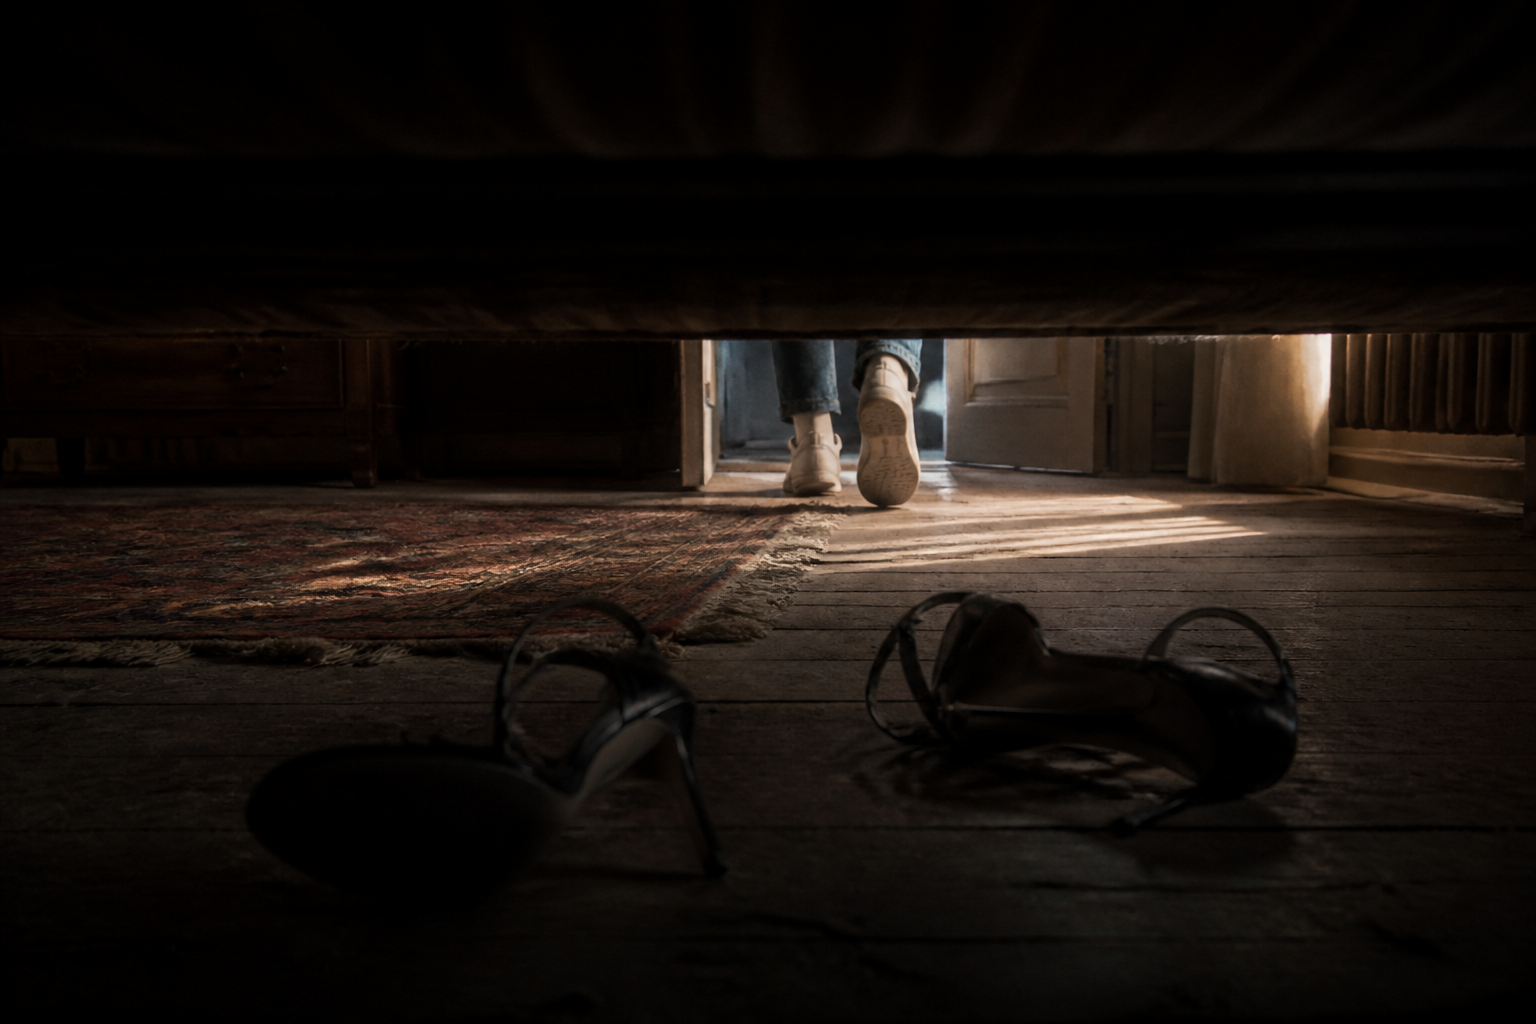
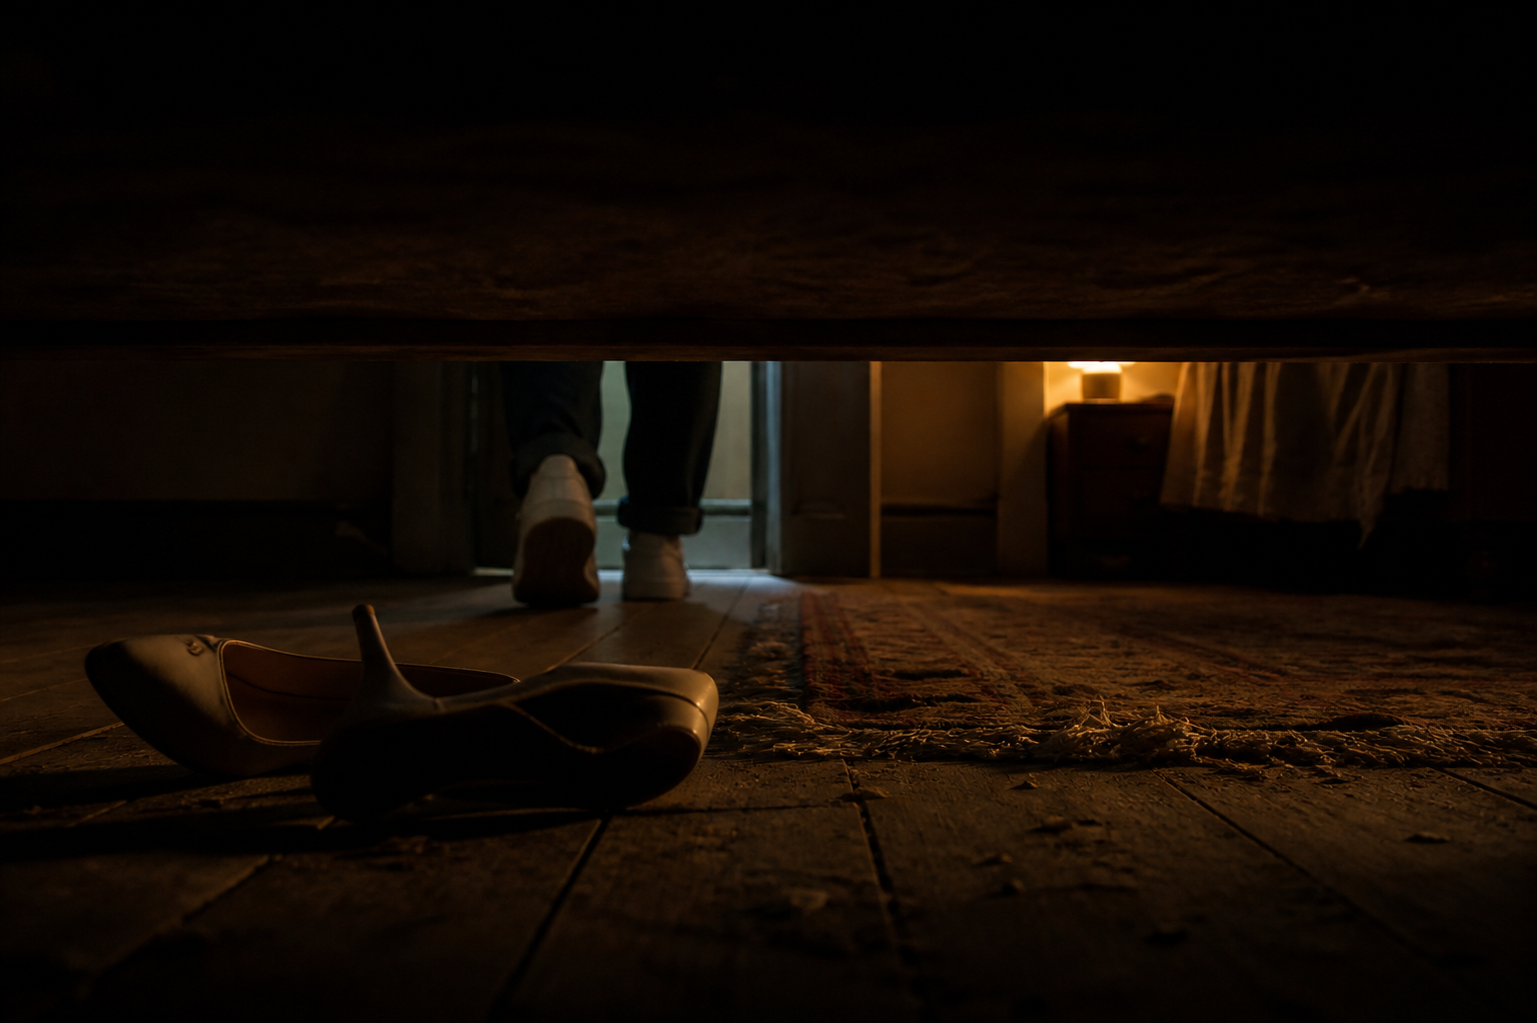
story: two hours later it is dusk outside, his house is lit at night

diff --git a/index.html b/index.html
@@ -434,12 +434,14 @@ const S = {flags: {}, dread: 0, seen: {}, day: false};
 const has = k => !!S.flags[k];
 const mark = k => { S.flags[k] = true; };
 // 门外那个机位的三张图：他进门 / 两小时后他出门 / 门口空了。
-// 同一个机位、同一种光（out 和 empty 是拿 v1 当参考图生的），所以换的只是贴图。
-const PANO_OUT_HIM = 'images/pano-outside-out.png';
-const PANO_OUT_EMPTY = 'images/pano-outside-empty.png';
-// 第四张：夜里的同一条街。"手机没掏出来"那条支线走到最后，她是自己从他家走出来的，
-// 那时候天早黑了，再用中午那张就散了。也是拿 empty 当参考图生的，只改光，
-// 房子、灌木、车、树一个都没动，所以热点坐标继续通用。
+// 同一个机位、同一栋房子（out-eve / empty-eve 是顺着 v1 那张 img2img 下来的），
+// 换的只是贴图和光：v1 是白天他进门，两小时之后天就有点黑了——路灯刚亮、影子全没了，
+// 他家一楼的窗户是暖黄的（他把灯留着了，所以后面进屋里也是亮的）。
+const PANO_OUT_HIM = 'images/pano-outside-out-eve.png';
+const PANO_OUT_EMPTY = 'images/pano-outside-empty-eve.png';
+// 第四张：全黑的同一条街。"手机没掏出来"那条支线走到最后，她是自己从他家走出来的，
+// 那时候比出门那会儿又黑了一大截：天全黑、他家每一扇窗都灭了。
+// 也是拿同一条街的图当参考生的，房子、灌木、车、树一个都没动，所以热点坐标继续通用。
 const PANO_OUT_DUSK = 'images/pano-outside-dusk.png';
 // 第二章那两张：她自己租下的隔壁。镜像户型、空屋子、裸地板，什么家具都没有——
 // 一个纸箱、一台电钻、一个睡袋，这就是她搬过来的全部。空本身就是这一章的调子。
@@ -522,7 +524,8 @@ const NODES = {
        on: () => mark('otherName')},
     ],
   },
-  // 最后一段：周六下午，他家门外。玩家蹲在灌木丛里，隔着树叶看他进门。
+  // 最后一段：周六，他家门外。玩家蹲在灌木丛里，隔着树叶看他进门；
+  // 两个小时后他再出来时天已经有点黑了（见 hedgeBeat / PANO_OUT_HIM）。
   // 这张全景图自带"藏在灌木里"——前景的枝叶就是遮挡（tools/gen_pano_outside.py）。
   // 同一个机位另有两张：他出门（-out）和门口空了（-empty），见 hedgeBeat。
   outside: {
@@ -562,11 +565,13 @@ const NODES = {
     ],
   },
   // 门里面。他不在家，你有整个晚上。
-  // 热点坐标是对着 images/pano-hishouse-v1.png 量的（u=x/1774, v=y/887）。
+  // 外面天已经黑了，所以屋里这张是夜版（v2 = v1 只改光）：他把落地灯和厨房的灯留着了，
+  // 百叶窗的缝里是夜色。热点坐标还是对着 v1 量的（u=x/1774, v=y/887）——
+  // img2img 只改光，家具一件都没动，坐标全部沿用。
   // 前门在图的左右边缘（接缝上），所以从门外走进来时 arrive 取 0.02。
   hishouse: {
     name: '他家',
-    pano: 'images/pano-hishouse-v1.png',
+    pano: 'images/pano-hishouse-v2.png',
     off: 0,
     rain: 0, wind: 0, drone: 0.06,
     spots: [
@@ -601,11 +606,12 @@ const NODES = {
   // 那么厚、下面架四条短腿"）才生效，但缝里地板亮得一清二楚——能躲进去，却看不出
   // "不知道里面有什么"。所以 v10 不再让模型猜，直接按量出来的坐标把那道缝压进阴影。
   // v4~v9 都留在 images/ 下没删，方便回退对比。
-  // 热点坐标对着 images/pano-hisbed-v7.png 量的，v8/v9/v10 家具位置没动，继续沿用
+  // v11 = v10 只改光的夜版：外面天黑了，屋里只开着床头那盏小灯，百叶窗的缝里是夜色。
+  // 热点坐标对着 images/pano-hisbed-v7.png 量的，v8~v11 家具位置没动，继续沿用
   //（u=x/1774, v=y/887）。
   hisbed: {
     name: '他的卧室',
-    pano: 'images/pano-hisbed-v10.png',
+    pano: 'images/pano-hisbed-v11.png',
     off: 0,
     rain: 0, wind: 0, drone: 0.05,
     // 进门那句不能挂在楼梯热点上——那句是在楼梯上说的。走完才说这一句。
@@ -643,7 +649,7 @@ const NODES = {
   // 坐标就是那道亮着的缝（进来时朝的也是这个方向）。
   underbed: {
     name: '床底',
-    pano: 'images/pano-underbed-v1.png',
+    pano: 'images/pano-underbed-v2.png',
     off: 0,
     rain: 0, wind: 0, drone: 0.14,          // 无窗无雨，只剩心跳那种低频压得更重
     onArrive: () => underBedBeat(),
@@ -2236,7 +2242,7 @@ app.addEventListener('click', e => {
     blip('note');
     callScene([
       {t: '你伸手摸了一下那张你睡过无数次的床。', d: 4.6},
-      {t: '枕头上有几根长头发。你把它们捏起来，举到百叶窗那道光里看。', d: 6.0,
+      {t: '枕头上有几根长头发。你把它们捏起来，举到床头灯那点光里看。', d: 6.0,
        f: () => showPlate(PLATE_HAIR)},
       {t: '金棕色，很长，明显不是他的。你把它们绕在食指上绕了三圈，塞进了外套口袋。', d: 7.0},
       {d: 1.6, f: hidePlate},
@@ -2396,10 +2402,10 @@ const plateEl = document.getElementById('plate');
 // 它基本只是留着：contain 会把整张图完整装进窗口，短边方向才有余量可偏。
 //   门口那张已经重做成横构图了（him-door-v2.jpg，1536x1024，跟 claire-underbed 一个尺寸）：
 //   旧版 him-door.jpg 是竖的 1023x1537，contain 之后左右两条黑边吃掉一半画面。
-//   头发那张（1023x1537）还是竖的，横屏里是高度顶满、左右留黑边，竖向偏移不起作用，
-//   所以那个 15% 是无害的历史值，捏着头发的手指完整在画面里。
+//   头发那张同样重做成了横的（hair-light-v2.jpg，1536x1024）：竖版在横屏里高度顶满、
+//   左右两条大黑边，跟别的贴片对不上。横版居中取景就行。
 const PLATE_DOOR = ['images/him-door-v2.jpg', '50% 50%'];
-const PLATE_HAIR = ['images/hair-light.jpg', '50% 15%'];
+const PLATE_HAIR = ['images/hair-light-v2.jpg', '50% 50%'];
 // 被发现那一下：Claire 把头倒过来伸进床底。这张是横构图（参考图先裁成了 16:9），
 // 所以居中取景就行，不用像上面两张那样往上偏。
 // 注意别和通讯录里那个 Sarah 搞混：Sarah 是闺蜜，Claire 是 Jude 的新女友。
@@ -2421,9 +2427,9 @@ const PLATE_APPRAISE = ['images/claire-appraise-v2.jpg', '50% 50%'];
 const PLATE_CHOKE = ['images/claire-choke.jpg', '50% 50%'];
 const PLATE_FLOOR = ['images/claire-floor.jpg', '50% 50%'];
 const PLATE_AFTER = ['images/after-hand.jpg', '50% 50%'];
-// 结局前最后一个画面：平躺看天花板。百叶窗那道光已经爬到墙和天花板的交界上——
-// 前面几张里它从床上移到墙上，这张接着往上走，是这一章唯一的时间交代（天快黑了）。
-// 画面里什么都没有，故意的：这一拍全靠静。
+// 结局前最后一个画面：平躺看天花板。夜里了：路灯透过百叶窗在墙和天花板的交界上印出
+// 一道冷蓝的条纹，近处角落是床头灯烘上来的一小片暖黄——一个天花板上冷暖两种光，
+// 就是"屋里开着灯、外面全黑了"这件事本身。画面里什么都没有，故意的：这一拍全靠静。
 const PLATE_CEILING = ['images/ceiling.jpg', '50% 50%'];
 // "手机没掏出来"那一支的收尾：邻居家临街窗户玻璃里面贴着的那张 A4 出租启事。
 // 这张必须是贴片——全景图那个分辨率上一张纸连白点都算不上，字更别想。
@@ -2481,9 +2487,11 @@ async function hedgeBeat() {
   blip('whoosh');
   say('你把身子往灌木更深处缩了缩。树叶合上了，只剩一道缝。', 3400);
   await waitStep(3000);
-  await fadePano(PANO_OUT_HIM, 1600);          // 远景：门开了，他站在门口
-  say('两个小时后，那扇门开了。', 3000);
-  await waitStep(2600);
+  // 字幕先出、图后溶：让"天暗下来"这句话和画面里的光同时发生，而不是先莫名其妙地黑掉
+  say('两个小时后，天暗下来了。', 3000);
+  await fadePano(PANO_OUT_HIM, 1600);          // 远景：门开了，他站在门口（傍晚那张）
+  say('那扇门开了。', 2600);
+  await waitStep(2400);
   showPlate(PLATE_DOOR);                       // 特写：这才看得清脸
   say('他就站在门口，低头看着手机。你看得清他的脸——他一次都没往这边看。', 6000);
   await waitStep(6400);
@@ -3119,7 +3127,7 @@ async function caughtBeat() {
   ]);
   showPlate(PLATE_AFTER);                      // 硬切，推近是连着的
   await callScene([
-    {t: '房间里很安静。窗外那道光已经从床上移到墙上去了。', d: 6.6},
+    {t: '房间里很安静。床头那盏灯还开着，窗外的路灯把百叶窗的影子印在墙上。', d: 6.6},
     {t: '你把地板擦了。你知道抹布在哪儿——楼下水槽底下第二格，他从来不换地方。', d: 7.8,
      // 警笛提前到这一句就起：等她躺下的时候，那声音已经在窗外某个地方响着了。
      // 44 秒的曲线正好铺到「它越来越近了」那句说完（7.8+5+7.6+4.8+5.2+6.4+7 ≈ 43.8）。
